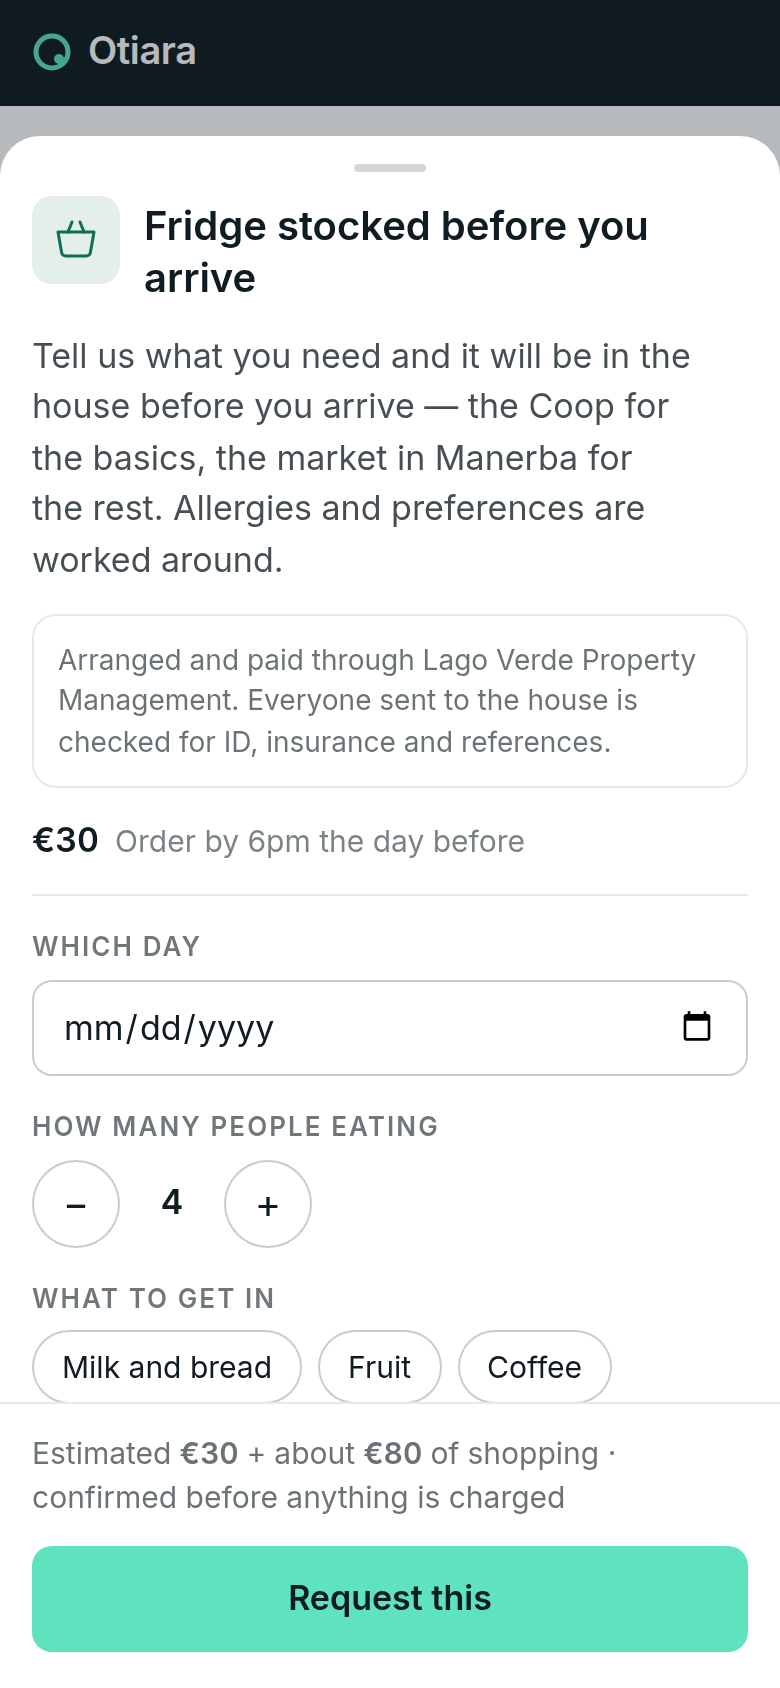
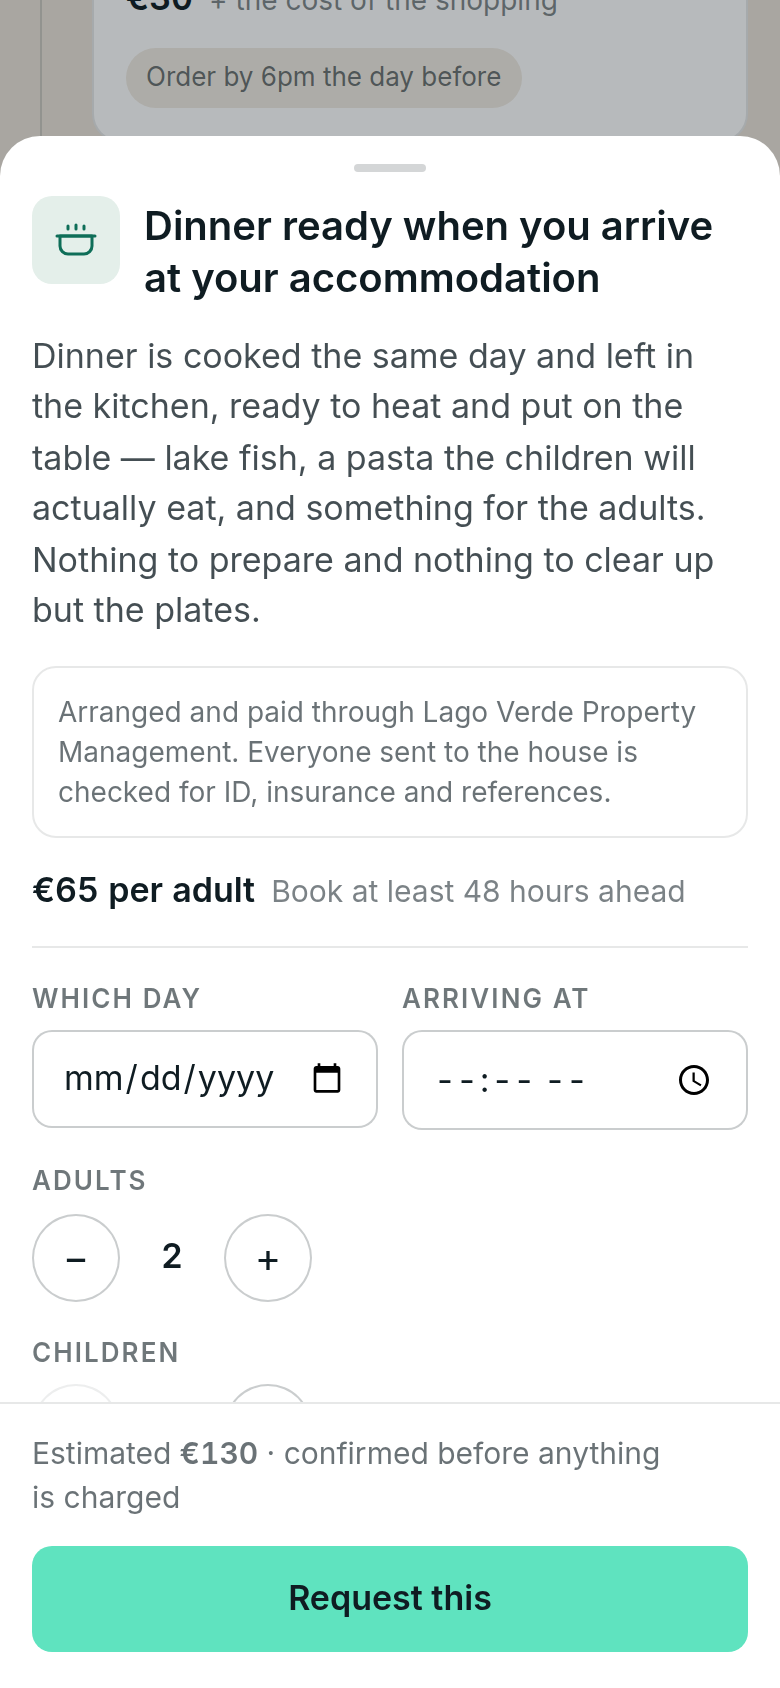
Turn the chef service into a meal left ready in the kitchen
The service is not a cook sent to the house, so nothing about it should read
that way: the title is now "Dinner ready when you arrive at your
accommodation", and the summary, description and menu options describe food
cooked the same day and left ready to heat.

- the sheet asks which day and what time you expect to arrive, instead of
  which evening and when you sit down
- the menu options drop the courses-with-a-chef framing
- Marco's role and blurb in the console follow the service he now performs

Claude-Session: https://claude.ai/code/session_01TW3243dmUATjAks6oaHHjP

diff --git a/src/lib/seed.ts b/src/lib/seed.ts
@@ -62,13 +62,13 @@ export const providers: Provider[] = [
   {
     id: 'marco',
     firstName: 'Marco',
-    role: 'cooks in your kitchen, Salò',
+    role: 'cooks for the houses, Salò',
     town: 'Salò',
     photo: portrait('men', 32),
     blurb:
-      'I cook in your kitchen and clean it before I go — lake fish, a pasta the children will actually eat, and something for the adults. You stay at the table.',
+      'I cook the same day and leave it ready in the kitchen — lake fish, a pasta the children will actually eat, and something for the adults.',
     verified: ['ID', 'insurance', 'HACCP certificate', 'references'],
-    confirmedNote: 'Marco will confirm the menu and what time to start',
+    confirmedNote: 'Marco will confirm the menu and when the food will be dropped off',
   },
   {
     id: 'giulia',
@@ -215,20 +215,20 @@ export const services: Service[] = [
   {
     id: 'chef-dinner',
     providerId: 'marco',
-    title: 'Dinner cooked at the villa on your first night',
+    title: 'Dinner ready when you arrive at your accommodation',
     icon: 'pot',
-    summary: 'A cook in your kitchen, and the kitchen left clean.',
+    summary: 'A meal waiting in the kitchen, so nobody cooks on the first night.',
     phase: 'first_evening',
     priceModel: 'per_person',
     priceValue: 65,
     unit: 'adult',
     leadTime: 'Book at least 48 hours ahead',
     description:
-      "Dinner is cooked in your own kitchen and the kitchen is cleaned before anyone leaves — lake fish, a pasta the children will actually eat, and something for the adults. You stay at the table.",
+      "Dinner is cooked the same day and left in the kitchen, ready to heat and put on the table — lake fish, a pasta the children will actually eat, and something for the adults. Nothing to prepare and nothing to clear up but the plates.",
     multiplierFields: ['adults'],
     fieldSchema: [
-      { id: 'date', type: 'date', label: 'Which evening', range: 'stay', required: true, half: true },
-      { id: 'time', type: 'time', label: 'Sit down at', required: true, half: true },
+      { id: 'date', type: 'date', label: 'Which day', required: true, half: true },
+      { id: 'time', type: 'time', label: 'Arriving at', required: true, half: true },
       { id: 'adults', type: 'stepper', label: 'Adults', min: 1, max: 16, defaultValue: 2 },
       {
         id: 'children',
@@ -245,9 +245,9 @@ export const services: Service[] = [
         label: 'Menu',
         required: true,
         options: [
-          { value: 'lake', label: 'Lake and garden — four courses' },
-          { value: 'tasting', label: 'Tasting menu — six courses', priceDelta: 18 },
-          { value: 'simple', label: 'Simple family dinner — three courses', priceDelta: -12 },
+          { value: 'lake', label: 'Lake fish with potatoes and salad' },
+          { value: 'tasting', label: 'Three courses — antipasti, pasta, dolce', priceDelta: 18 },
+          { value: 'simple', label: 'Lasagne and salad — the one the children finish', priceDelta: -12 },
         ],
         scalesWithMultiplier: true,
         help: 'Per adult, on top of the base price',
